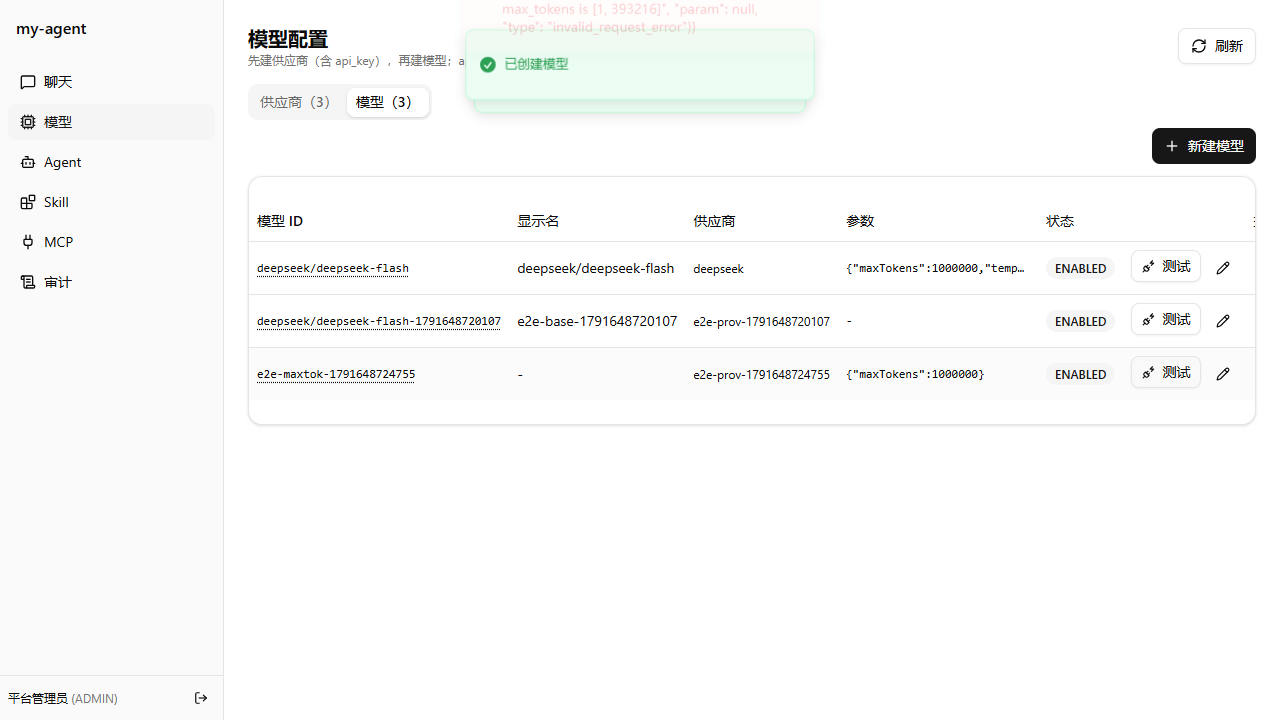
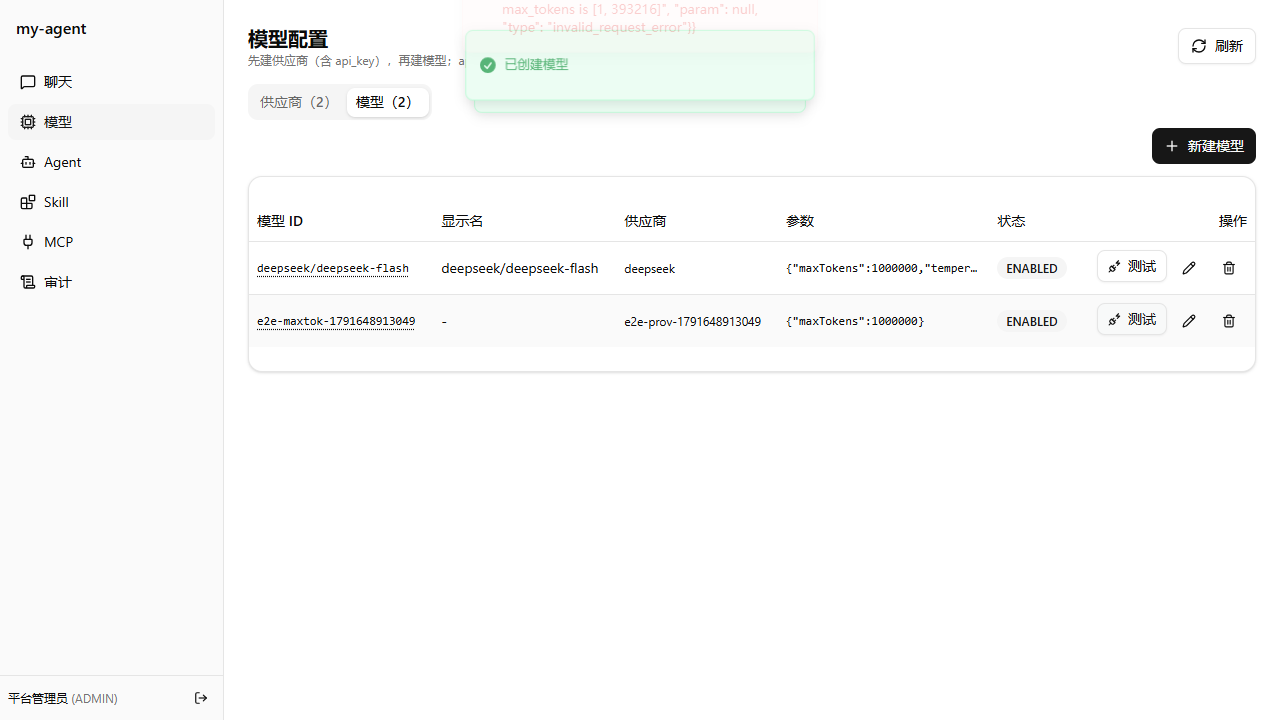
test(P2-repair): 修正 admin E2E 的清理顺序缺陷，确保跑完不留残留
问题：apiCleanup 里 e2eProviderIds 在其使用之后才声明（时间死区），
导致每个用例的 afterEach 抛 ReferenceError —— 7 个用例全红，且数据没被清理。

修复：把“e2e 供应商 id 集合”的计算移到函数开头（删模型之前），
并让清理同时覆盖“属于 e2e 供应商但被改名的模型”（斜杠用例会把模型改名成
deepseek/deepseek-flash-<stamp>，不含 e2e- 前缀，仅靠前缀匹配会漏）。

实测：7 passed；跑完后库里只剩用户自己的 deepseek 供应商/模型与 stub-demo-agent。

diff --git a/frontend/e2e/admin.spec.ts b/frontend/e2e/admin.spec.ts
@@ -25,6 +25,14 @@ async function apiCleanup(request: APIRequestContext, prefix: string) {
     await request.delete(`${API}${path}/${id}`, { headers, failOnStatusCode: false });
   };
 
+  // 先算出“属于本次测试”的供应商 id（必须在删模型之前算）
+  const providers = await (await request.get(`${API}/api/model-providers?current=1&size=500`, { headers })).json();
+  const e2eProviderIds = new Set<number>(
+    (providers.data?.records ?? [])
+      .filter((p: { name: string }) => String(p.name).startsWith(prefix))
+      .map((p: { id: number }) => p.id),
+  );
+
   // 顺序：agent -> session -> mcp/skill -> model -> provider（先解绑定）
   const agents = await (await request.get(`${API}/api/agents?current=1&size=500`, { headers })).json();
   for (const a of agents.data?.records ?? []) {
@@ -40,12 +48,11 @@ async function apiCleanup(request: APIRequestContext, prefix: string) {
   }
   const models = await (await request.get(`${API}/api/models?current=1&size=500`, { headers })).json();
   for (const m of models.data?.records ?? []) {
-    if (String(m.modelId).startsWith(prefix)) await del("/api/models", m.id);
+    // 也删掉“属于 e2e 供应商”的模型：用例可能把模型改名成不含 e2e- 的值
+    const ownedByE2eProvider = e2eProviderIds.has(Number(m.providerId));
+    if (String(m.modelId).startsWith(prefix) || ownedByE2eProvider) await del("/api/models", m.id);
   }
-  const providers = await (await request.get(`${API}/api/model-providers?current=1&size=500`, { headers })).json();
-  for (const p of providers.data?.records ?? []) {
-    if (String(p.name).startsWith(prefix)) await del("/api/model-providers", p.id);
-  }
+  for (const id of e2eProviderIds) await del("/api/model-providers", id);
 }
 
 /** 每个用例结束都清理自己造的数据。 */
